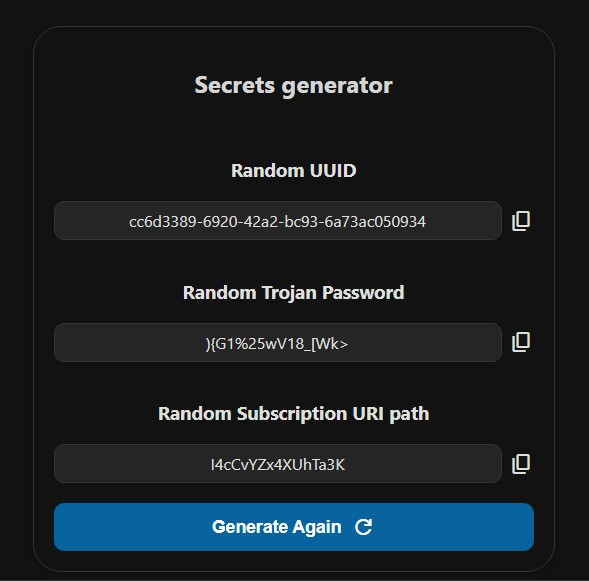
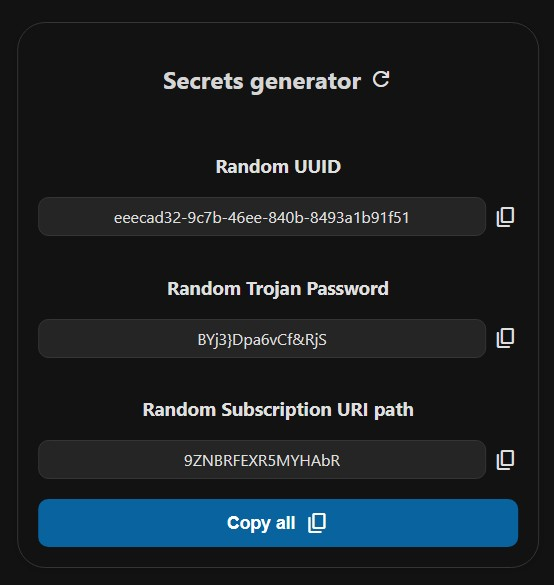
Added env vars copy all to secrets, PR #975

diff --git a/src/assets/secrets/script.js b/src/assets/secrets/script.js
@@ -1,5 +1,6 @@
 localStorage.getItem('darkMode') === 'enabled' && document.body.classList.add('dark-mode');
 generateCredentials();
+let uuid, password, uriPath;
 
 function generateUUID() {
     return crypto.randomUUID();
@@ -31,9 +32,9 @@ function generateSubURIPath() {
 }
 
 function generateCredentials() {
-    const uuid = generateUUID();
-    const password = generateStrongPassword();
-    const uriPath = generateSubURIPath();
+    uuid = generateUUID();
+    password = generateStrongPassword();
+    uriPath = generateSubURIPath();
 
     document.getElementById('uuid').textContent = uuid;
     document.getElementById('tr-password').textContent = password;
@@ -41,7 +42,10 @@ function generateCredentials() {
 }
 
 window.copyToClipboard = function (elementId) {
-    const textToCopy = document.getElementById(elementId).textContent;
+    const textToCopy = elementId 
+        ? document.getElementById(elementId).textContent
+        : `UUID=${uuid}\nTR_PASS=${password}\nSUB_PATH=${uriPath}`;
+
     navigator.clipboard.writeText(textToCopy)
         .then(() => alert('✅ Copied to clipboard!'))
         .catch(err => console.error('Failed to copy text:', err));

diff --git a/src/assets/secrets/index.html b/src/assets/secrets/index.html
@@ -21,7 +21,12 @@
             </span>
         </h1>
         <div class="form-container">
-            <h2>Secrets generator</h2>
+            <div class="value-container">
+                <h2>Secrets generator</h2>
+                <span class="material-symbols-rounded" onclick="generateCredentials()">
+                    refresh
+                </span>
+            </div>
             <div>
                 <h3>Random UUID</h3>
                 <div class="value-container">
@@ -55,10 +60,10 @@
                     </span>
                 </div>
             </div>
-            <button class="button" class="button" onclick="generateCredentials()">
-                Generate Again
+            <button class="button" class="button" onclick="copyToClipboard()">
+                Copy all
                 <span class="material-symbols-rounded">
-                    refresh
+                    content_copy
                 </span>
             </button>
         </div>

diff --git a/src/assets/secrets/style.css b/src/assets/secrets/style.css
@@ -11,17 +11,10 @@
     --header-shadow: 2px 2px 4px rgba(0, 0, 0, 0.25);
 }
 
-html,
-body {
-    height: 100%;
-    margin: 0;
-}
-
 body {
     font-family: system-ui;
     background-color: var(--background-color);
     color: var(--lable-text-color);
-    position: relative;
     text-align: center;
 }
 
@@ -44,6 +37,7 @@ body.dark-mode {
     left: 50%;
     transform: translate(-50%, -50%);
     width: 90%;
+    padding: 20px;
 }
 
 h1 {
@@ -140,10 +134,17 @@ button {
 .material-symbols-rounded {
     cursor: pointer;
     font-variation-settings:
-        'FILL' 1,
+        'FILL' 0,
         'wght' 400,
         'GRAD' 0,
         'opsz' 24
+}
+
+.refresh-geo-location {
+    background: none;
+    margin: 0;
+    border: none;
+    cursor: pointer;
 }
 
 @media only screen and (min-width: 576px) {

diff --git a/docs/fa/docs/installation/pages-manual.md b/docs/fa/docs/installation/pages-manual.md
@@ -48,9 +48,9 @@
 
 تنظیمات KV تموم شد.
 
-### ۴. تنظیم UUID و پسورد Trojan
+### ۴. تنظیم UUID ، پسورد Trojanو مسیر امن لینکهای اشتراک
 
-توی همون بخش `Settings`، قسمت `Variables and Secrets` رو پیدا کنید. روی `Add` کلیک کنید. توی خونه اول `UUID` (با حروف بزرگ) رو وارد کنید و UUID رو از لینکی که قبلاً باز کردید کپی کنید و توی قسمت `Value` بذارید. روی `Add variable` کلیک کنید. بعد دوباره `Add variable` رو بزنید، توی خونه اول `TR_PASS` (با حروف بزرگ) رو وارد کنید، پسورد Trojan رو از همون لینک کپی کنید و توی قسمت `Value` بذارید و `Save` کنید.
+به صفحه `Secrets generator` که از قبل باز کرده بودید برید و `Copy all` رو بزنید. به داشبورد کلادفلر برگردید، توی همون بخش `Settings`، قسمت `Variables and Secrets` رو پیدا کنید. روی `Add` کلیک کنید. توی خونه `Variable name`  کپی کنید و `Save` رو بزنید. این کار بصورت خودکار هر 3 متغیر رو به پنل شما اضافه میکنه.
 
 از بالای صفحه روی `Create deployment` کلیک کنید و همون فایل زیپ رو دوباره مثل قبل آپلود کنید.
 

diff --git a/docs/fa/docs/installation/workers-manual.md b/docs/fa/docs/installation/workers-manual.md
@@ -46,9 +46,9 @@
 
 ![Bind KV](../images/bind-kv.jpg)
 
-### ۴. تنظیم UUID و پسورد Trojan
+### ۴. تنظیم UUID ، پسورد Trojanو مسیر امن لینکهای اشتراک
 
-توی همون `Settings`، یه بخش به اسم `Variables and Secrets` میبینید. روی `Add` کلیک کنید، `UUID` (با حروف بزرگ) رو بهعنوان `Variable name` وارد کنید، UUID رو از **Secrets generator** کپی کنید و توی قسمت Value بذارید، روی `+ Add variable` کلیک کنید و `Variable name` رو `TR_PASS` (با حروف بزرگ) بذارید، پسورد Trojan رو از **Secrets generator** بگیرید و بعد `Deploy` کنید.
+به صفحه `Secrets generator` که از قبل باز کرده بودید برید و `Copy all` رو بزنید. به داشبورد کلادفلر برگردید، توی همون بخش `Settings`، قسمت `Variables and Secrets` رو پیدا کنید. روی `Add` کلیک کنید. توی خونه `Variable name`  کپی کنید و `Deploy` رو بزنید. این کار بصورت خودکار هر 3 متغیر رو به پنل شما اضافه میکنه.
 
 دوباره توی داشبورد Worker روی `Visit` کلیک کنید، توی مرورگر speedtest رو میبینید، فقط `/panel` رو به آخر آدرس اضافه کنید و پنلتون رو ببینید:
 

diff --git a/docs/en/docs/installation/pages-manual.md b/docs/en/docs/installation/pages-manual.md
@@ -48,9 +48,9 @@ In the `Bindings` section, click `Add` and select `KV Namespace`. Set the `Varia
 
 The KV setup is now complete.
 
-### 4. Set UUID and Trojan password
+### 4. Set UUID, Trojan password and Subscription path
 
-In the same `Settings` section, locate the `Variables and Secrets` section. Click `Add`. Enter `UUID` (in capital letters) in the first box and copy the UUID from the link provided earlier into the `Value` field. Click `Add variable`. Then, enter `TR_PASS` (in capital letters) in the first box, copy the Trojan Password from the link into the `Value` field, and click `Save`.
+Click `Copy all` from the `Secrets generator` page provided earlier, In Cloudflare dashboard go to `Settings` section, locate the `Variables and Secrets` section. Click `Add` and paste into the `Variable name` field and click `Save`. This will automatically add these 3 parameters to panel.
 
 Click `Create deployment` at the top of the page and upload the same zip file again, as done previously.
 

diff --git a/docs/en/docs/installation/workers-manual.md b/docs/en/docs/installation/workers-manual.md
@@ -46,9 +46,9 @@ Again, go to the `Developer Platform` section, open the Worker you just created,
 
 ![Bind KV](../images/bind-kv.jpg)
 
-### 4. Set UUID and Trojan password
+### 4. Set UUID, Trojan password and Subscription path
 
-Still in `Settings`, you'll see a section called `Variables and Secrets`. Click `Add`, enter `UUID` (in uppercase) as the `Variable name`, paste the UUID **Secrets generator** into the Value field, click `+ Add variable` and set `Variable name` to `TR_PASS` (uppercase), get the Trojan password from **Secrets generator**, then `Deploy`.
+Click `Copy all` from the `Secrets generator` page provided earlier, In Cloudflare dashboard go to `Settings` section, locate the `Variables and Secrets` section. Click `Add` and paste into the `Variable name` field and click `Deploy`. This will automatically add these 3 parameters to panel.
 
 Again click `Visit` in your worker dashboard, you see speedtest in browser, just add `/panel` to the end of address and see your panel:
 

diff --git a/RELEASE.md b/RELEASE.md
@@ -1,4 +1,7 @@
 # ⚙ Bug fixes and Improvements
 
-- Fixed Fingerprint not applied to Normal configs
-- Display errors in same page
+- Added proxy IPs link to panel
+- Added `Copy all` to secrets generator, PR #975
+
+> [!TIP]
+> You can now copy all environment variables and just copy into `Variable name` field in Cloudflare dashboard instead of creating env vars one by one.
